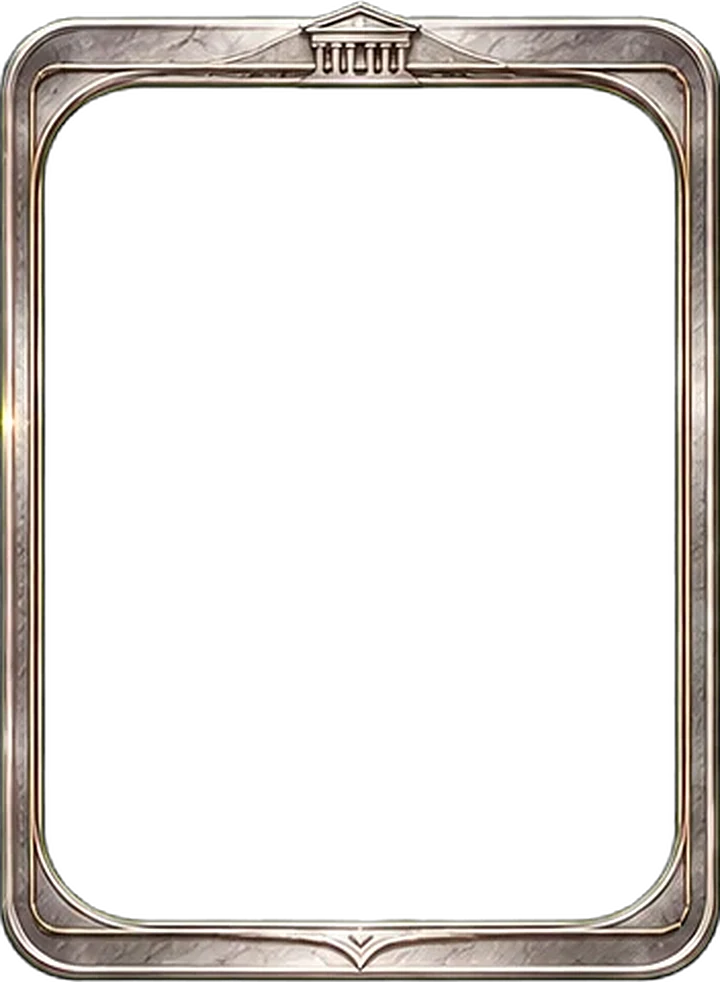
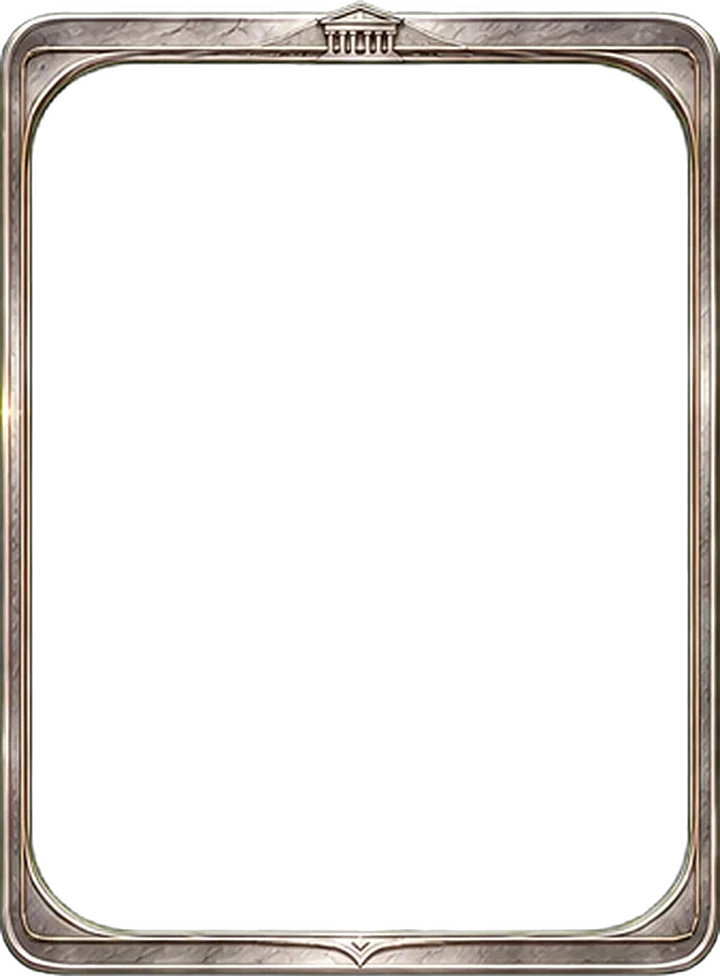
카드 프레임 테두리를 30% 얇게 (가운데 장식·모서리 보석은 비율 유지)
- build-card-frames.py 에 두께 배율 인자: 띠만 누르고 위·아래 가운데 장식은 같은 비율로 줄여 다시 붙임
- python3 -I scripts/build-card-frames.py assets/card-frames-source.webp 720 0.7

Claude-Session: https://claude.ai/code/session_01BYcu7KyFJsRhLndaoEbYSw

Changed region(s): [[0.0, 0.0, 1.0, 1.0]]

diff --git a/src/lib/game/frameGeometry.ts b/src/lib/game/frameGeometry.ts
@@ -12,66 +12,66 @@ export interface FrameGeometry {
 export const FRAME_GEOMETRY: Record<Rarity, FrameGeometry> = {
   "common": {
     "out": {
-      "t": 1.91,
+      "t": 1.33,
       "r": 0.0,
-      "b": 0.21,
+      "b": 0.0,
       "l": 0.0
     },
     "open": {
-      "t": 7.23,
-      "r": 6.25,
-      "b": 6.17,
-      "l": 6.25
+      "t": 5.31,
+      "r": 4.44,
+      "b": 4.65,
+      "l": 4.44
     },
-    "radius": 7.67,
-    "aspect": 0.7489
+    "radius": 5.62,
+    "aspect": 0.7478
   },
   "rare": {
     "out": {
-      "t": 2.13,
+      "t": 1.56,
       "r": 0.0,
-      "b": 0.21,
+      "b": 0.0,
       "l": 0.0
     },
     "open": {
-      "t": 7.23,
-      "r": 7.04,
-      "b": 8.72,
-      "l": 7.32
+      "t": 5.36,
+      "r": 5.29,
+      "b": 6.7,
+      "l": 5.29
     },
-    "radius": 7.32,
-    "aspect": 0.7553
+    "radius": 5.0,
+    "aspect": 0.7589
   },
   "epic": {
     "out": {
-      "t": 3.83,
+      "t": 2.71,
       "r": 0.0,
-      "b": 1.7,
-      "l": 0.28
+      "b": 1.13,
+      "l": 0.0
     },
     "open": {
-      "t": 11.28,
-      "r": 7.65,
-      "b": 9.57,
-      "l": 7.65
+      "t": 8.6,
+      "r": 5.62,
+      "b": 7.24,
+      "l": 5.92
     },
-    "radius": 7.37,
-    "aspect": 0.7511
+    "radius": 5.92,
+    "aspect": 0.7647
   },
   "legendary": {
     "out": {
-      "t": 4.47,
-      "r": 0.28,
-      "b": 1.91,
-      "l": 0.28
+      "t": 3.17,
+      "r": 0.3,
+      "b": 1.36,
+      "l": 0.0
     },
     "open": {
-      "t": 10.64,
-      "r": 7.93,
-      "b": 11.06,
-      "l": 7.93
+      "t": 8.16,
+      "r": 5.65,
+      "b": 8.16,
+      "l": 5.95
     },
-    "radius": 6.52,
-    "aspect": 0.7511
+    "radius": 5.06,
+    "aspect": 0.7619
   }
 };

diff --git a/scripts/build-card-frames.py b/scripts/build-card-frames.py
@@ -3,7 +3,8 @@
   public/cards/frames/{common,rare,epic,legendary}.webp  (투명 배경)
   src/lib/game/frameGeometry.ts                          (프레임 몸통·안쪽 창·튀어나온 장식 위치, %)
 
-사용: python3 -I scripts/build-card-frames.py <원본 이미지> [출력 너비 px, 기본 720]
+사용: python3 -I scripts/build-card-frames.py <원본 이미지> [출력 너비 px, 기본 720] [테두리 두께 배율, 기본 1]
+  두께 배율 0.7 = 테두리를 70% 두께로 (띠만 얇게 누르고, 위·아래 가운데 장식과 모서리는 비율을 지켜 함께 줄임)
 새 프레임 이미지를 받으면 이 스크립트만 다시 돌리면 된다 (화면 코드는 frameGeometry.ts 를 읽음).
 """
 import json
@@ -83,9 +84,68 @@ def geometry(alpha: np.ndarray):
     }
 
 
+def resize_np(a: np.ndarray, w: int, h: int) -> np.ndarray:
+    return np.asarray(Image.fromarray(a, "RGBA").resize((max(1, w), max(1, h)), Image.LANCZOS))
+
+
+def squeeze_axis(a: np.ndarray, lo: int, hi: int, k: float, axis: int) -> np.ndarray:
+    """axis 방향으로 [0,lo) 와 [hi,끝) 띠를 k 배로 누른다 (가운데는 그대로)"""
+    if axis == 1:
+        return squeeze_axis(a.transpose(1, 0, 2), lo, hi, k, 0).transpose(1, 0, 2)
+    n, w = a.shape[0], a.shape[1]
+    top, mid, bot = a[:lo], a[lo:hi], a[hi:]
+    top = resize_np(top, w, round(lo * k))
+    bot = resize_np(bot, w, round((n - hi) * k))
+    return np.concatenate([top, mid, bot], axis=0)
+
+
+def thin_frame(piece: np.ndarray, k: float) -> np.ndarray:
+    """테두리 띠를 k 배 두께로. 위·아래 가운데 장식(신전·보석)은 같은 비율로 줄여 다시 붙인다"""
+    if k >= 0.999:
+        return piece
+    alpha = piece[..., 3] / 255.0
+    g = geometry(alpha)
+    bt, bb, bl, br = g["box"]
+    bh, bw = bb - bt + 1, br - bl + 1
+    h, w = alpha.shape
+    # 안쪽 창 경계 (px)
+    ot = bt + round(g["open"]["t"] * bh / 100)
+    ob = bb - round(g["open"]["b"] * bh / 100)
+    ol = bl + round(g["open"]["l"] * bw / 100)
+    orr = br - round(g["open"]["r"] * bw / 100)
+    base = squeeze_axis(piece, ot, ob + 1, k, 0)
+    base = squeeze_axis(base, ol, orr + 1, k, 1)
+    nh, nw = base.shape[:2]
+    x0, x1 = round(w * 0.15), round(w * 0.85)  # 가운데 장식 띠 (양끝은 장식 없는 금속)
+    sx0 = round(x0 * k) if x0 < ol else x0 - (ol - round(ol * k))
+    out = base.copy().astype(np.float32)
+
+    def paste(src: np.ndarray, top: int):
+        # 원본 띠를 k 배로 (비율 유지) 줄여 가운데에 붙이고, 양끝은 부드럽게 섞는다
+        sh, sw = src.shape[:2]
+        small = resize_np(src, round(sw * k), round(sh * k)).astype(np.float32)
+        th, tw = small.shape[:2]
+        cx = (sx0 + (sx0 + (x1 - x0))) // 2 - tw // 2
+        cx = (nw - tw) // 2
+        feather = max(2, tw // 12)
+        ramp = np.ones(tw, np.float32)
+        ramp[:feather] = np.linspace(0, 1, feather)
+        ramp[-feather:] = np.linspace(1, 0, feather)
+        m = ramp[None, :, None]
+        region = out[top : top + th, cx : cx + tw]
+        th2 = region.shape[0]
+        out[top : top + th2, cx : cx + tw] = region * (1 - m) + small[:th2] * m
+
+    paste(piece[: ot, x0:x1], 0)
+    bot_src = piece[ob + 1 :, x0:x1]
+    paste(bot_src, nh - round(bot_src.shape[0] * k))
+    return out.clip(0, 255).astype(np.uint8)
+
+
 def main():
     src = Path(sys.argv[1])
     width = int(sys.argv[2]) if len(sys.argv) > 2 else 720
+    thin = float(sys.argv[3]) if len(sys.argv) > 3 else 1.0
     rgba = key_green(np.asarray(Image.open(src).convert("RGB")))
     alpha = rgba[..., 3] / 255.0
     segs = segments((alpha > 0.5).sum(axis=0) > 5)
@@ -97,7 +157,7 @@ def main():
     for rarity, (x0, x1) in zip(RARITIES, segs):
         col = alpha[:, x0 : x1 + 1]
         ys = np.where((col > 0.05).sum(axis=1) > 0)[0]
-        piece = rgba[ys[0] : ys[-1] + 1, x0 : x1 + 1]
+        piece = thin_frame(rgba[ys[0] : ys[-1] + 1, x0 : x1 + 1], thin)
         g = geometry(piece[..., 3] / 255.0)
         img = Image.fromarray(piece, "RGBA")
         scale = width / img.width
